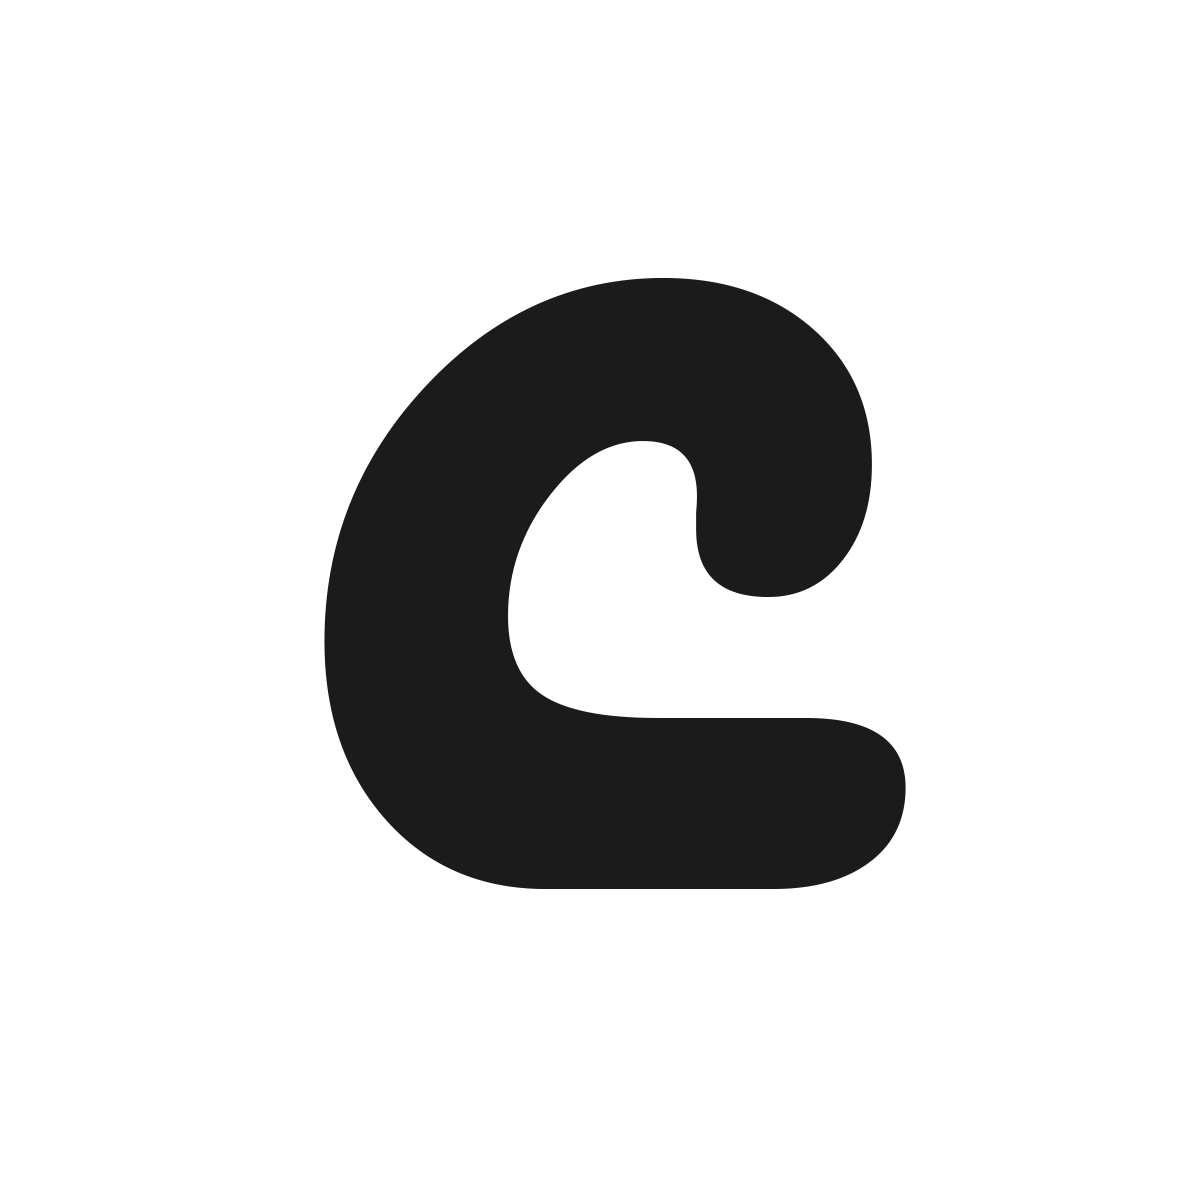
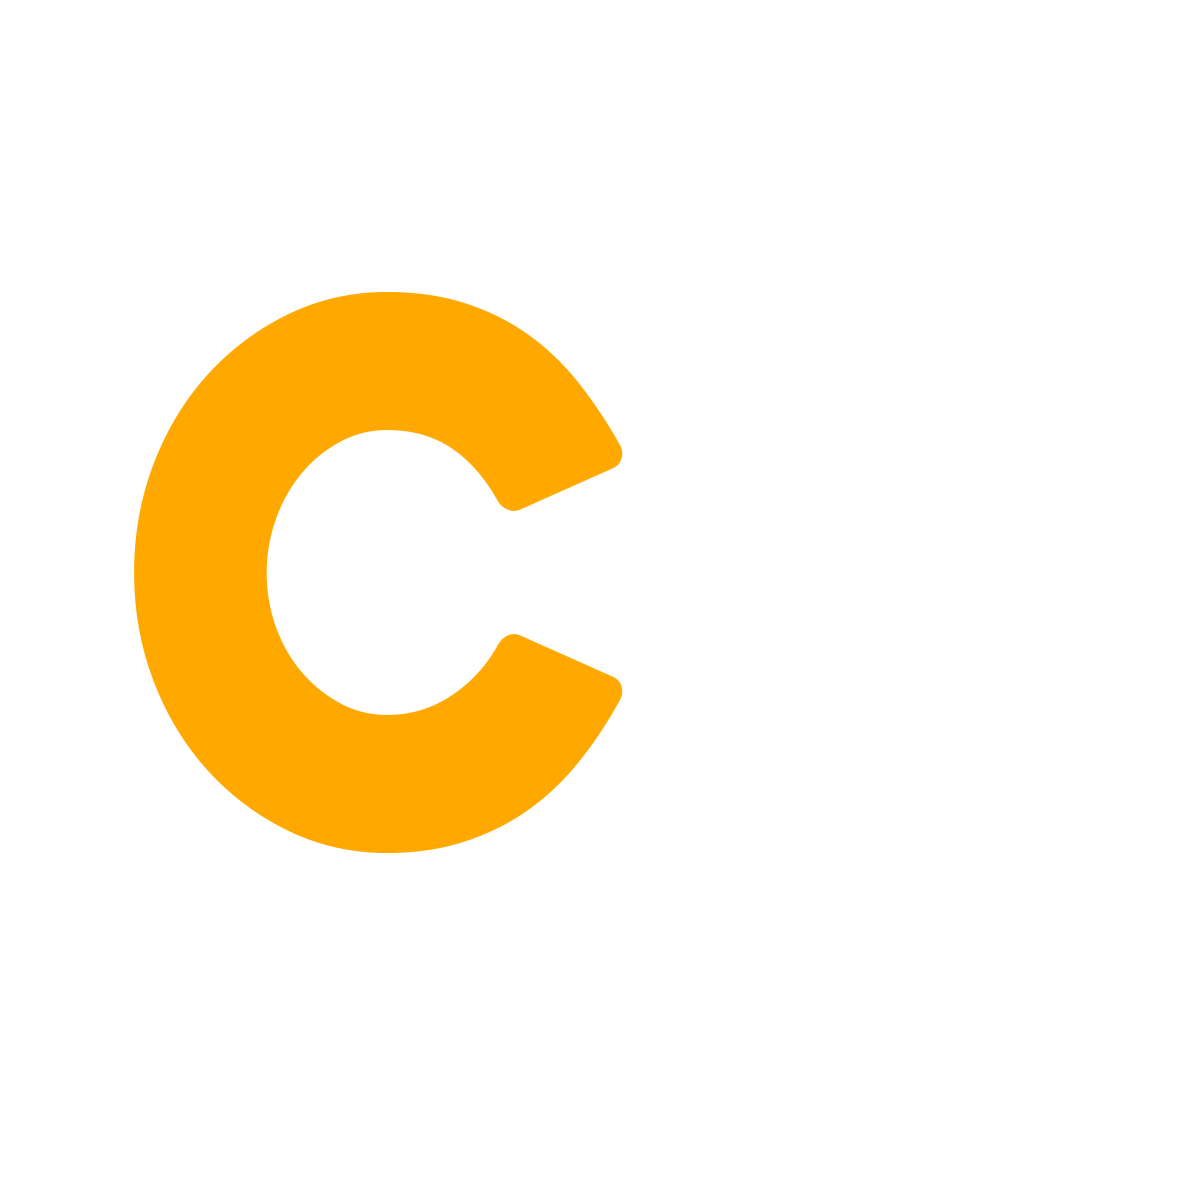
CONVERTING TO CODESHELF

Changed region(s): [[0.0925, 0.2158, 0.7708, 0.74]]

diff --git a/resources/views/zencom/components/footer.blade.php b/resources/views/zencom/components/footer.blade.php
@@ -35,7 +35,16 @@
                                 <div class="mb-3">
                                     <div class="form-div">Body</div>
                                     <div class="form-floating">
+                                      
                                         <textarea class="form-control loginform" id="floatingTextarea2" style="height: 100px" name="Body"></textarea>
+
+                                        {{-- <textarea class="form-control loginform" id="floatingTextarea2"  style="height: 100px" name="Body"></textarea> --}}
+
+                                        {{-- <textarea id="floatingTextarea2" name="Body" style="display:none;"></textarea>
+
+                                        <!-- Quill Editor Container (which Quill will initialize) -->    --}}
+                                <div id="editor-container"></div>
+
                                     </div>
                                 </div>
                                 <div class="mt-5">
@@ -113,39 +122,29 @@
     }
 </script>
 
-<script>
-    (function() {
-        var words = ["Community", "Socialize",
-            "Warriors", "UEZenith", "SubstanceOverForm"
 
-        ];
-        var i = 0;
-        var j = 0;
-        var currentWord = '';
-        var isDeleting = false;
-
-        function type() {
-            var speed = 200; // typing speed in milliseconds
-
-            if (j < words[i].length && !isDeleting) {
-                currentWord += words[i][j];
-                $('#delivery').text(currentWord);
-                j++;
-            } else if (j > 0 && isDeleting) {
-                currentWord = currentWord.slice(0, -1);
-                $('#delivery').text(currentWord);
-                j--;
-            } else {
-                isDeleting = !isDeleting;
-                if (isDeleting) {
-                    speed = 500; // pause before starting to type next word when deleting
-                }
-                i = (i + 1) % words.length;
-            }
-
-            setTimeout(type, speed);
-        }
-
-        type(); // start typing when the page loads
-    })();
-</script>
+{{-- <script>
+    // Initialize Quill editor
+    var quill = new Quill('#editor-container', {
+      theme: 'snow',
+      modules: {
+        toolbar: [
+          ['bold', 'italic', 'underline'],
+          [{ 'list': 'ordered' }, { 'list': 'bullet' }]
+        ]
+      }
+    });
+  
+    // Function to handle form submission
+    document.getElementById('myForm').addEventListener('submit', function(event) {
+      // Prevent form submission to handle it manually
+      event.preventDefault();
+  
+      // Transfer Quill's content to the hidden textarea
+      var content = quill.root.innerHTML;
+      document.querySelector('textarea[name="Body"]').value = content;
+  
+      // Submit the form after transferring content
+      document.getElementById('myForm').submit();
+    });
+  </script> --}}

diff --git a/resources/views/zencom/community.blade.php b/resources/views/zencom/community.blade.php
@@ -40,7 +40,7 @@
                                 <div class="d-flex flex-column justify-content-center">
                                     <div class="fs-5 px-3"><b> Mark Manliclic</b></div>
                                     <p class="px-3">
-                                        CEO-ADMIN</p>
+                                        ADMIN</p>
                                 </div>
                             </div>
                             <div class="d-flex flex-column align-items-center p-2">
@@ -50,7 +50,7 @@
                             </div>
                         </div>
                         <div class="card-body  p-3">
-                            <div class="fs-1 card-title">Welcome to /Community.</div>
+                            <div class="fs-1 card-title">Welcome to Code Shelf.</div>
                             <hr>
                             <p class="card-text">
                                 1) <b class="highlight-green">Positive Engagement: </b>This is a space for positive
@@ -63,9 +63,9 @@
                                 community.
                             </p>
 
-                            <span class="">Thank you for being a part of our /Community 🌟<span>
+                            <span class="">Thank you for being a part of our Code Shelf Community🌟<span>
                                     <br>
-                                    #<b id="delivery"></b>
+                                    #Contribute
                         </div>
 
                     </div>

diff --git a/resources/views/welcome.blade.php b/resources/views/welcome.blade.php
@@ -6,9 +6,9 @@
     <div class="container-xxl">
         <div class="row m-5">
             <div class="col-lg-6 text-start p-5">
-                <b>Welcome to Community</b>
+                <b>Welcome to The Code Shelf</b>
                 <div class="fs-1">
-                    Create <span id="delivery"></span>
+                    Store <span id="delivery"></span>
                 </div>
                 <br>
                 <p>Empower Your World: Contribute, Interact, Connect with Community. 🌐✨</p>
@@ -37,7 +37,7 @@
 
                     </div>
 
-                    Create a Page for a celebrity, brand or business.
+                    Create your repository!
                 @endif
 
             </div>
@@ -51,7 +51,7 @@
 <section class="hero-new__background-image">
 
     <div class="container-xxl">
-        <div class="fs-1">What is Community?</div>
+        <div class="fs-1">What is Code Shelf?</div>
         <hr>
         <div class="row my-5">
             <div class="col-lg-4">
@@ -87,7 +87,7 @@
 
 
         <div class="row">
-            <div class="fs-1">Why is Community?</div>
+            <div class="fs-1">Why is Code Shelf?</div>
             <hr>
             <div class="col-lg-6">
                 <div class="fs-5 p-5 m-1">

diff --git a/resources/views/zencom/partials/header.blade.php b/resources/views/zencom/partials/header.blade.php
@@ -8,7 +8,7 @@
     <link rel="stylesheet" href="https://cdn.jsdelivr.net/npm/bootstrap-icons@1.11.1/font/bootstrap-icons.css">
     <link rel="stylesheet" href="{{ asset('bootstrap-5.3.2/dist/css/bootstrap.min.css') }}">
     <link rel="stylesheet" href="{{ asset('css/style.css') }}">
-    <link rel="shortcut icon" href="{{ asset('css/assets/favicon.ico') }}">
+    <link rel="shortcut icon" href="{{ asset('css/assets/nobg-black.png') }}">
 
     <script src="https://cdnjs.cloudflare.com/ajax/libs/popper.js/1.12.9/umd/popper.min.js"></script>
     <script src="https://code.jquery.com/jquery-3.6.0.min.js"></script>
@@ -16,8 +16,10 @@
     <link rel="preconnect" href="https://fonts.googleapis.com">
     <link rel="preconnect" href="https://fonts.gstatic.com" crossorigin>
     <link href="https://fonts.googleapis.com/css2?family=Noto+Sans:ital,wght@0,400;0,700;1,400&display=swap"
+    
         rel="stylesheet">
-
+        <link href="https://cdn.quilljs.com/1.3.6/quill.snow.css" rel="stylesheet">
+        <script src="https://cdn.quilljs.com/1.3.6/quill.js"></script>
 </head>
 
 <style>

diff --git a/resources/views/partials/footer.blade.php b/resources/views/partials/footer.blade.php
@@ -253,9 +253,8 @@
 
 <script>
     (function() {
-        var words = ["Things", "Memories",
-            " a Story", "a Vision",
-            "Opportunities", "a Legacy"
+        var words = ["Codes", "Queries",
+            "Stuff", "Notes","Things"
         ];
         var i = 0;
         var j = 0;
@@ -337,3 +336,5 @@
         $('.file-upload-placeholder').removeClass('image-dropping');
     });
 </script>
+
+

diff --git a/app/Http/Controllers/LoginController.php b/app/Http/Controllers/LoginController.php
@@ -26,7 +26,7 @@ class LoginController extends Controller
             $user = Socialite::driver('google')->user();
             //dd($user);
         } catch (\Exception $e) {
-            dd($e->getMessage());
+            return redirect('/home')->with('message', 'Operation was Cancelled!');
         }
 
 

diff --git a/app/Http/Controllers/PostController.php b/app/Http/Controllers/PostController.php
@@ -20,7 +20,7 @@ class PostController extends Controller
 
             $validatedData = $request->validate([
                 'title' => 'required',
-                'Body' => 'required',
+                'Body' => 'required|string',
             ]);
 
             // Process and store the data
